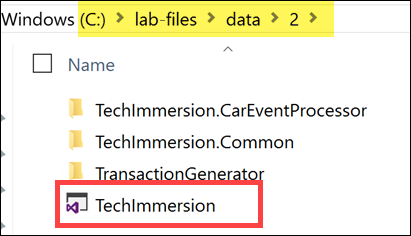
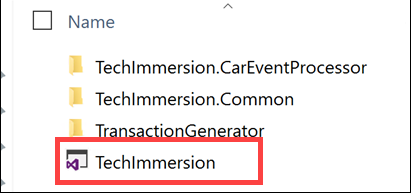
updated references to 4

diff --git a/day1-exp4/README.md b/day1-exp4/README.md
@@ -531,7 +531,7 @@ The data generator console application creates and sends simulated vehicle senso
 
 In this task, you will open the lab solution in Visual Studio, publish the Function App, and configure and run the data generator. The data generator saves simulated vehicle telemetry data to Cosmos DB, which triggers the Azure function to run and process the data, sending it to Event Hubs, prompting your Stream Analytics job to aggregate and analyze the enriched data and send it to Power BI. The final step will be to create the Power BI report in the task that follows.
 
-1.  Open File Explorer and navigate to `C:\lab-files\data\2`. Double-click on **TechImmersion.sln** to open the solution in Visual Studio. **NOTE:** If you are prompted by Visual Studio to log in, log in with your Azure Active Directory credentials you are using for this lab (they are called `Username` and `Password` under the heading Azure Credentials in the documentation).
+1.  Open File Explorer and navigate to `C:\lab-files\data\4`. Double-click on **TechImmersion.sln** to open the solution in Visual Studio. **NOTE:** If you are prompted by Visual Studio to log in, log in with your Azure Active Directory credentials you are using for this lab (they are called `Username` and `Password` under the heading Azure Credentials in the documentation).
 
     ![The TechImmersion.sln file is highlighted in the C:\tech-immersion folder.](media/vs-solution.png 'Windows explorer')
 
